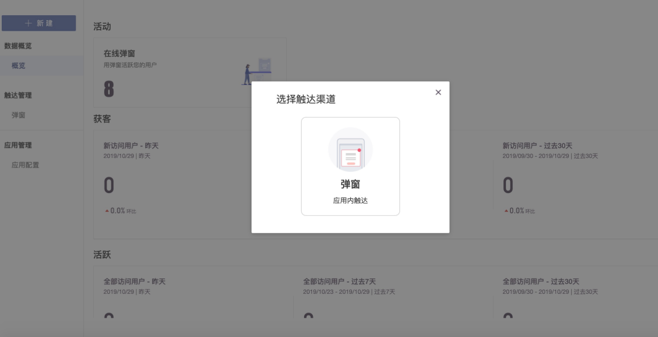
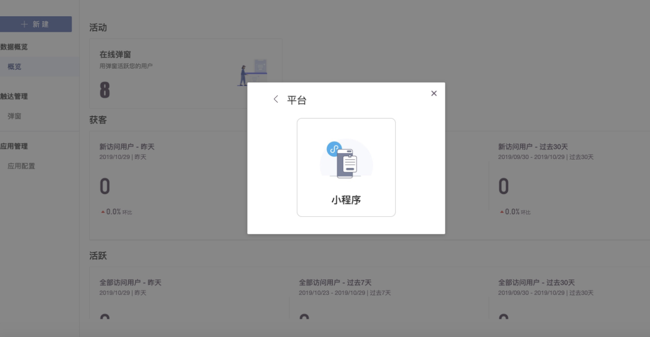
GitBook: [v20200604] 89 pages and 4 assets modified

diff --git a/developer-manual/sdkintegrated/mp/minp-sdk/tan-chuang-sdk-wei-xin-xiao-cheng-xu.md b/developer-manual/sdkintegrated/mp/minp-sdk/tan-chuang-sdk-wei-xin-xiao-cheng-xu.md
@@ -7,15 +7,15 @@
 
    打开开发设置，到服务器域名配置部分
 
-   在`request合法域名`中添加：https://messages.growingio.com
+   在`request合法域名`中添加：https://XX.com \(你设置的gtouchhost地址\)
 
 ## 二. 平台创建微信小程序SDK消息
 
 进入 **** **用户运营**，点击左上角的**新建**按钮，选择**弹窗**，然后选择**小程序**，即可进入微信小程序的弹窗配置页面
 
-![](../../../../.gitbook/assets/image%20%28258%29.png)
+![](../../../../.gitbook/assets/image%20%28260%29.png)
 
-![](../../../../.gitbook/assets/image%20%28257%29.png)
+![](../../../../.gitbook/assets/image%20%28258%29.png)
 
 根据您的需要，选择对应的**产品**、**触发时机**、**触发次数**、**图片素材**、**点击事件后**、**上线时间**、**停止时间**后，**保存上线**即可。
 

diff --git a/SUMMARY.md b/SUMMARY.md
@@ -79,6 +79,7 @@
       * [小程序SDK](developer-manual/sdkintegrated/mp/minp-sdk/README.md)
         * [弹窗SDK（微信小程序）](developer-manual/sdkintegrated/mp/minp-sdk/tan-chuang-sdk-wei-xin-xiao-cheng-xu.md)
         * [小程序获取设备访问ID](developer-manual/sdkintegrated/mp/minp-sdk/getid.md)
+        * [调试指南（小程序）](developer-manual/sdkintegrated/mp/minp-sdk/debug.md)
   * [API参考](developer-manual/api-reference/README.md)
     * [API接口](developer-manual/api-reference/cdp/README.md)
       * [接口认证](developer-manual/api-reference/cdp/authentication.md)

diff --git a/developer-manual/sdkintegrated/mp/minp-sdk/getid.md b/developer-manual/sdkintegrated/mp/minp-sdk/getid.md
@@ -1,2 +1,10 @@
 # 小程序获取设备访问ID
 
+开发者在控制台中输入 `gioGlobal.__growing__.growingio.info.uid`  
+例:
+
+![](../../../../.gitbook/assets/image%20%28259%29.png)
+
+复制其中的**d50cfa32-6a69-46c7-9a82-618bd5b0cd91**\(不要带引号和空格\)保存到设备访问用户ID  
+
+

diff --git a/developer-manual/sdkintegrated/mp/minp-sdk/debug.md b/developer-manual/sdkintegrated/mp/minp-sdk/debug.md
@@ -1,0 +1,2 @@
+# 调试指南（小程序）
+
